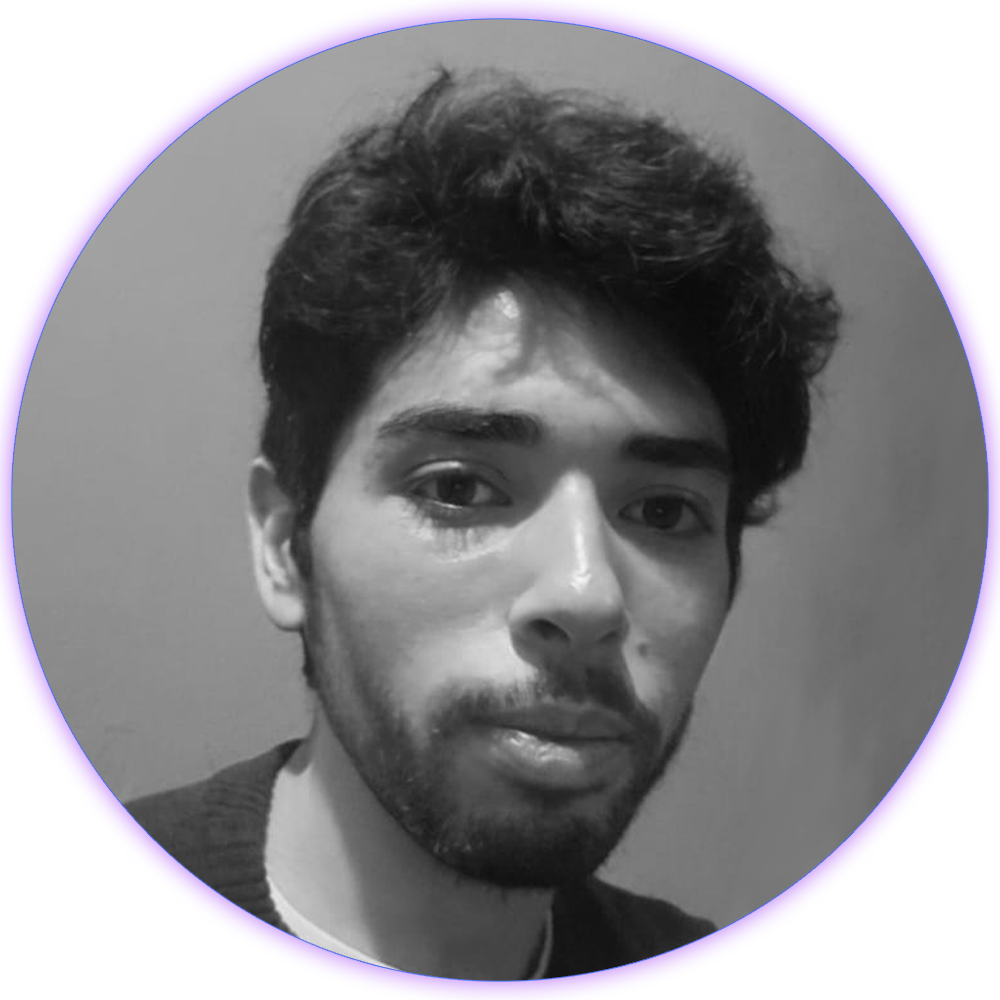
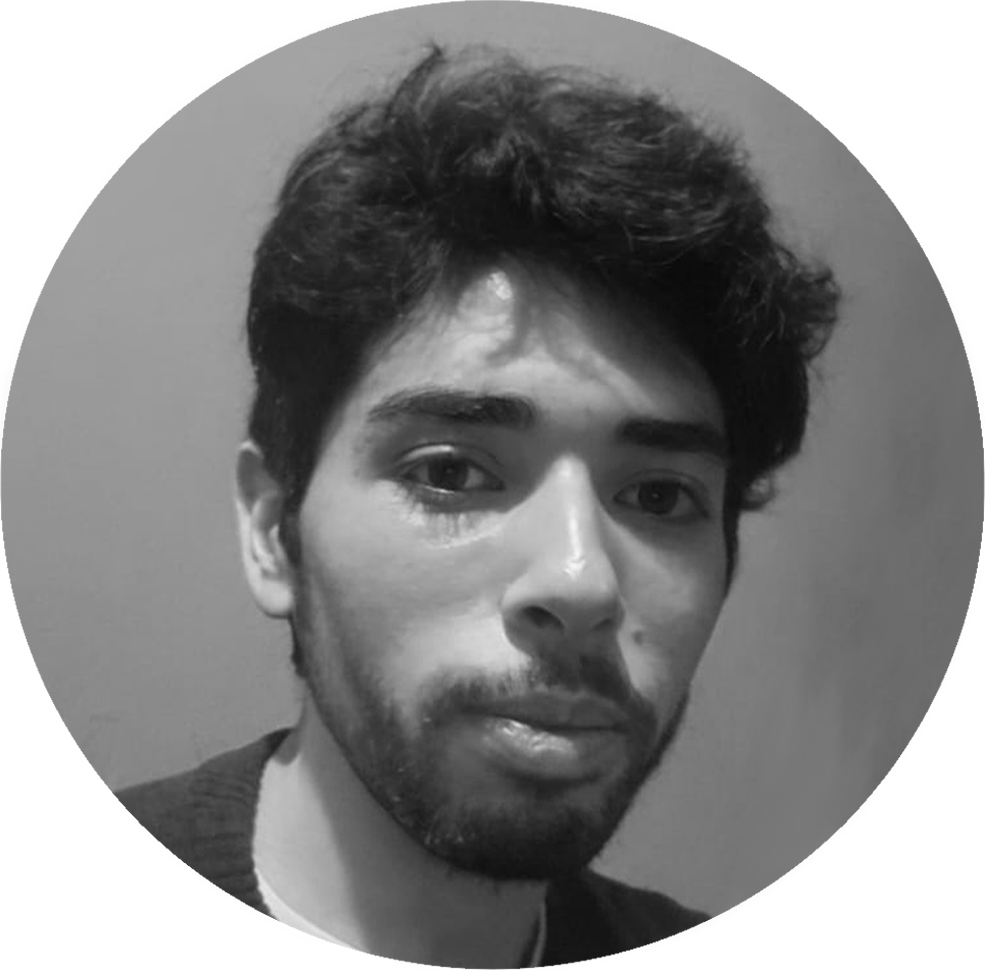
Update animations

diff --git a/index.html b/index.html
@@ -47,8 +47,8 @@
       </div>
     </nav>
     <section id="profile">
-      <div class="section__pic-container">
-        <img src="./assets/profile-pic.png" alt="John Doe profile picture" />
+      <div class="section__pic-container">        
+          <img class="profile-picture" src="./assets/profile-pic.png" alt="Pablo Domingo"  />        
       </div>
       <div class="section__text">
         <p class="section__text__p1">Hello, I'm</p>
@@ -77,6 +77,12 @@
             alt="My Github profile"
             class="icon"
             onclick="location.href='https://github.com/PabloDomingok'"
+          />
+          <img
+          src="./assets/instagram.svg"
+          alt="My Instagram profile"
+          class="icon"
+          onclick="location.href='https://github.com/PabloDomingok'"
           />
         </div>
       </div>
@@ -361,13 +367,13 @@
       <p class="section__text__p1">Get To Know More</p>
       <h1 class="title">About Me</h1>
       <div class="section-container">
-        <div class="section__pic-container">
+        <!-- <div class="section__pic-container">
           <img
             src="./assets/about-pic.png"
             alt="Profile picture"
             class="about-pic"
           />
-        </div>
+        </div> -->
         <div class="about-details-container">
           <div class="about-containers">
             <div class="details-container">
@@ -378,6 +384,33 @@
               />
               <h3>Experience</h3>
               <p>1+ year <br />Frontend Development</p>
+            </div>
+            <div class="details-container">
+              <img
+                src="./assets/education.png"
+                alt="Education icon"
+                class="icon"
+              />
+              <h3>Education</h3>
+              <p>Alura LATAM | Oracle NEXT EDUCATION<br />Frontend Development | Soft Skills<br></p>
+            </div>
+            <div class="details-container">
+              <img
+                src="./assets/education.png"
+                alt="Education icon"
+                class="icon"
+              />
+              <h3>Education</h3>
+              <p>Alura LATAM | Oracle NEXT EDUCATION<br />Frontend Development | Soft Skills<br></p>
+            </div>
+            <div class="details-container">
+              <img
+                src="./assets/education.png"
+                alt="Education icon"
+                class="icon"
+              />
+              <h3>Education</h3>
+              <p>Alura LATAM | Oracle NEXT EDUCATION<br />Frontend Development | Soft Skills<br></p>
             </div>
             <div class="details-container">
               <img
@@ -405,6 +438,7 @@
         onclick="location.href='#contact'"
       />
     </section>
+    
     <section id="contact">
       <p class="section__text__p1">Get in Touch</p>
       <h1 class="title">Contact Me</h1>

diff --git a/style.css b/style.css
@@ -27,7 +27,40 @@ background-image: linear-gradient(to right, #417ff5, #ab56f4);
 background-clip: text;
 
 }
+/* ANIMATIONS */
+@keyframes myAnim {
+	0% {
+		opacity: 0;
+		transform: scale(0.6);
+	}
 
+	100% {
+		opacity: 1;
+		transform: scale(1);
+	}
+}
+@keyframes fadeIn {
+	0% {
+		opacity: 0;
+		transform: translateX(-50px);
+	}
+
+	100% {
+		opacity: 1;
+		transform: translateX(0);
+	}
+}
+@keyframes fadeInRight {
+	0% {
+		opacity: 0;
+		transform: translateX(50px);
+	}
+
+	100% {
+		opacity: 1;
+		transform: translateX(0);
+	}
+}
 /* TRANSITION */
 
 a,
@@ -72,10 +105,32 @@ a:hover {
   color: transparent;
   background-image: linear-gradient(to right, #417ff5, #ab56f4);
   background-clip: text;
+  animation: fadeIn 2s ease 0s 1 normal forwards;
 }
 
 .logo:hover {
   cursor: default;
+}
+
+
+.profile-picture{
+  border-radius: 50%;
+  animation: myAnim 2s ease 0s 1 normal forwards;
+}
+
+.title{
+  animation: fadeIn 2s ease 0s 1 normal forwards;
+}
+.section__text__p1,
+.section__text__p2{
+  animation: fadeInRight 2s ease 0s 1 normal forwards;
+}
+.icon{
+  animation: myAnim 2s ease 0s 1 normal forwards;
+  transition: filter 0s;
+}
+.icon:hover{
+  filter: invert(40%) sepia(82%) saturate(722%) hue-rotate(188deg) brightness(98%) contrast(96%);
 }
 
 /* HAMBURGER MENU */
@@ -440,7 +495,8 @@ article .icon {
 
 .contact-info-upper-container {
   display: flex;
-  
+  width:80%;
+  margin: 0 auto;
   justify-content: center;
   border-radius: 2rem;
   border: #ab56f4 0.1rem solid;

diff --git a/mediaqueries.css b/mediaqueries.css
@@ -61,7 +61,9 @@
 @media screen and (max-width: 600px) {
   #contact,
   footer {
+    
     margin: 40px;
+    height: 90%;
     
     
   }
@@ -80,6 +82,7 @@
   .contact-info-upper-container,
   .btn-container {
     flex-wrap: wrap;
+    width: 100%;
   }
   .contact-info-container-upper-container {
     width: 80%; /* ajusta el ancho según sea necesario */
@@ -135,5 +138,16 @@
     width: 200px;
     
   }
- 
+  .form-style-1{
+    padding: 10px 10px 10px 10px;
+  }
+  .menu-links.open{
+    z-index: 9999;
+  }
+  .btn.btn-color-1{
+    animation: fadeInRight 2s ease 0s 1 normal forwards;
+  }
+  .btn.btn-color-2{
+    animation: fadeIn 2s ease 0s 1 normal forwards;
+  }
 }
